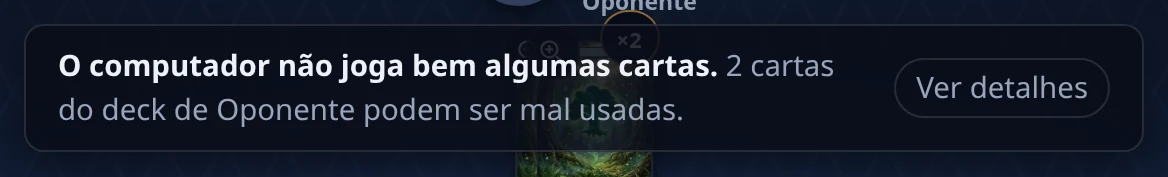
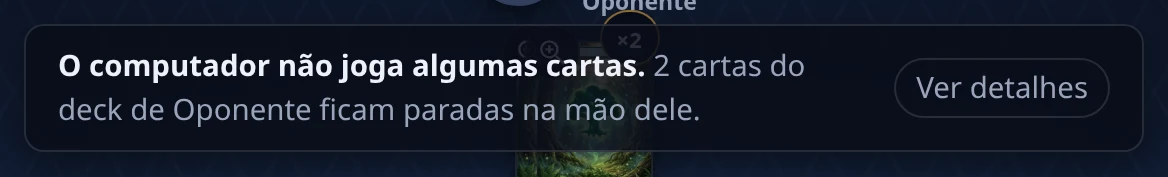
O computador joga com os seus decks: a lista do deck do computador ganha o grupo Meus decks, e deck com cartas que a IA não usa é aceito sem travar (elas ficam paradas na mão dele); aviso do começo da partida diz isso; item 118 (revelar e escolher numa janela só) no roadmap (0.154.0)

Changed region(s): [[0.0616, 0.5367, 0.6164, 0.7062], [0.339, 0.3107, 0.7397, 0.4802]]

diff --git a/src/ui/lobby.ts b/src/ui/lobby.ts
@@ -139,6 +139,8 @@ export function mountLobby(root: HTMLElement, opts: LobbyOptions): Lobby {
   function matches(deck: DeckData) { return matchesQuery(deck, query, ptName) && matchesColors(deckColors(deck), colorFilter); }
   // ---------- Decks dos computadores (as regras ficam em lobbyBots) ----------
   const readyPool = () => readyBotPool(allDecks(), format);
+  /** Os decks do jogador que o computador pode usar neste formato (escolhidos à mão; o aleatório sorteia só entre os prontos). */
+  const myBotDecks = () => allDecks().filter(d => !d.builtin && fitsIn(d, format ?? 'free'));
   const myBracket = () => { const deck = selected(); return deck && !deck.precon ? deckBracket(deck) : deck?.bracket; };
   /** Precon com "só da série" marcado: a série do deck do jogador. */
   const botSeries = () => format === 'precon' && sameSeries ? selected()?.precon?.series : undefined;
@@ -272,14 +274,15 @@ export function mountLobby(root: HTMLElement, opts: LobbyOptions): Lobby {
     const style = load(KEYS.aiStyle), aiStyle = isAiStyle(style) ? style : DEFAULT_AI_STYLE;
     $<HTMLSelectElement>('#aiStyleSel').value = aiStyle;
     $('#aiStyleHelp').textContent = AI_STYLES.find(s => s.id === aiStyle)!.hint;
-    const basePool = readyPool(), aiPool = commander ? botPool(basePool) : basePool;
+    const basePool = readyPool(), aiPool = commander ? botPool(basePool) : basePool, mine = myBotDecks();
     renderBotChoices(basePool, aiPool);
-    if (oppId !== 'random' && !aiPool.some(d => d.id === oppId)) oppId = 'random';
-    $<HTMLSelectElement>('#oppSel').innerHTML = opponentOptionsHTML(aiPool);
+    const offered = (id: string) => id === 'random' || aiPool.some(d => d.id === id) || mine.some(d => d.id === id);
+    if (!offered(oppId)) oppId = 'random';
+    $<HTMLSelectElement>('#oppSel').innerHTML = opponentOptionsHTML(aiPool, mine);
     $<HTMLSelectElement>('#oppSel').value = oppId;
     if (commander) {
-      commanderOpponents = commanderOpponents.map(id => id === 'random' || aiPool.some(d => d.id === id) ? id : 'random');
-      $('#commanderAiPanel').innerHTML = commanderAiPanelHTML(commanderOpponents.slice(0, playerCount - 1), aiPool);
+      commanderOpponents = commanderOpponents.map(id => offered(id) ? id : 'random');
+      $('#commanderAiPanel').innerHTML = commanderAiPanelHTML(commanderOpponents.slice(0, playerCount - 1), aiPool, mine);
     }
     for (const control of root.querySelectorAll<HTMLInputElement | HTMLButtonElement>('#oppSel, #aiStyleSel, [data-opponent-slot], #netName, #netCode, #roomCode, #netUrl, [data-join] button, [data-join-room], [data-watch-room], [data-lobby=rooms-refresh], [data-lobby=library], [data-lobby=create], [data-lobby=import], [data-edit-deck]')) control.disabled = busy || !!waitingRoom;
     return aiPool;
@@ -428,13 +431,13 @@ export function mountLobby(root: HTMLElement, opts: LobbyOptions): Lobby {
         if (selectedRoom) await opts.onJoin(deck ?? null, playerName, selectedRoom.code, endpoint);
         else await opts.onHost(deck ?? null, playerName, endpoint, matchConfig, roomVisibility, chosenCode);
       } else if (deck) {
-        const opponent = opponentId === 'random' ? null : allDecks().find(d => d.builtin && d.id === opponentId);
+        const opponent = opponentId === 'random' ? null : allDecks().find(d => d.id === opponentId);
         if (opponent === undefined) { setStatus('Não há um deck do computador compatível com este formato.', true); return; }
         // Com bracket máximo ou série, o sorteio dos bots é feito aqui, entre os decks que cabem; sem eles, no servidor.
         const pool = botPool(readyPool()), filtered = botBracketMax(readyPool()) !== null || !!botSeries();
         if (hasCommandZone(matchConfig.format) && filtered && !pool.length && selectedOpponents.includes('random')) { setStatus('Nenhum deck pronto cabe no bracket máximo dos bots.', true); return; }
         // Sem filtro, os aleatórios vão como null e o servidor sorteia, também sem repetir comandante.
-        const chosen = selectedOpponents.map(id => id === 'random' ? null : allDecks().find(d => d.builtin && d.id === id) ?? null);
+        const chosen = selectedOpponents.map(id => id === 'random' ? null : allDecks().find(d => d.id === id) ?? null);
         const opponents = hasCommandZone(matchConfig.format) ? filtered ? drawBots(chosen, pool, [deck]) : chosen : undefined;
         await opts.onPlay(deck, opponents?.[0] ?? opponent, matchConfig, opponents);
       }

diff --git a/src/ui/lobbyView.ts b/src/ui/lobbyView.ts
@@ -97,10 +97,15 @@ export function botBracketHelp(o: { empty: boolean; series: boolean; max: Bracke
     : `Os bots jogam com decks até o ${bracketLabel(o.max)}${!o.chosen && o.mine === o.max ? ', o do seu deck' : ''}.`;
 }
 /** Um seletor de deck para cada computador do Commander. */
-export function commanderAiPanelHTML(slots: string[], pool: DeckData[]) {
-  return '<p class="commander-ai-heading side-label">Decks dos computadores</p>' + slots.map((id, i) => `<label class="opponent-choice" for="commanderOpp${i}"><span class="computer-seat-number" aria-hidden="true">${i + 1}</span><select id="commanderOpp${i}" aria-label="Deck do computador ${i + 1}" class="input-field" data-opponent-slot="${i}"><option value="random">Deck aleatório</option>${pool.map(d => `<option value="${esc(d.id)}" ${id === d.id ? 'selected' : ''}>${esc(d.name)}</option>`).join('')}</select></label>`).join('');
+/** As opções de deck de um computador: os prontos e, se houver, os do jogador num grupo próprio ("Meus decks"). */
+function botDeckOptionsHTML(pool: DeckData[], mine: DeckData[], selected?: string) {
+  const options = (decks: DeckData[]) => decks.map(d => `<option value="${esc(d.id)}"${selected === d.id ? ' selected' : ''}>${esc(d.name)}</option>`).join('');
+  return mine.length ? `<optgroup label="Decks prontos">${options(pool)}</optgroup><optgroup label="Meus decks">${options(mine)}</optgroup>` : options(pool);
 }
-export const opponentOptionsHTML = (pool: DeckData[]) => '<option value="random">Aleatório entre os compatíveis</option>' + pool.map(d => `<option value="${esc(d.id)}">${esc(d.name)}</option>`).join('');
+export function commanderAiPanelHTML(slots: string[], pool: DeckData[], mine: DeckData[] = []) {
+  return '<p class="commander-ai-heading side-label">Decks dos computadores</p>' + slots.map((id, i) => `<label class="opponent-choice" for="commanderOpp${i}"><span class="computer-seat-number" aria-hidden="true">${i + 1}</span><select id="commanderOpp${i}" aria-label="Deck do computador ${i + 1}" class="input-field" data-opponent-slot="${i}"><option value="random">Deck aleatório</option>${botDeckOptionsHTML(pool, mine, id)}</select></label>`).join('');
+}
+export const opponentOptionsHTML = (pool: DeckData[], mine: DeckData[] = []) => '<option value="random">Aleatório entre os compatíveis</option>' + botDeckOptionsHTML(pool, mine);
 /** O deck escolhido, junto do botão Jogar. `result`: o que o servidor disse dele, se já disse. */
 export function chosenDeckHTML(deck: DeckData | undefined, o: { format: DeckFormat | null; net: boolean; result?: { valid: boolean } }) {
   const art = deck && deckArt(deck);

diff --git a/forge-bridge/src/main/java/mesadeduelo/bridge/AiCardsNotice.java b/forge-bridge/src/main/java/mesadeduelo/bridge/AiCardsNotice.java
@@ -1,4 +1,4 @@
-// Um aviso só, discreto, com as cartas que o computador não joga bem, no lugar da janela de revelar por oponente.
+// Um aviso só, discreto, com as cartas que o computador não joga, no lugar da janela de revelar por oponente.
 package mesadeduelo.bridge;
 
 import java.util.Collection;
@@ -15,7 +15,7 @@ import forge.item.PaperCard;
 
 /**
  * No começo da partida contra o computador, o Forge abre uma janela de revelar para cada oponente com cartas que a IA
- * não sabe jogar. A mesa junta tudo num aviso de canto: quantas cartas e de quem, com a lista por oponente para quem
+ * não joga (nunca as conjura nem ativa). A mesa junta tudo num aviso de canto: quantas cartas e de quem, com a lista por oponente para quem
  * quiser ver. O reserva fica de fora (não entra em jogo na partida).
  */
 final class AiCardsNotice {
@@ -52,10 +52,11 @@ final class AiCardsNotice {
         if (total == 0) return null;
         JsonObject o = new JsonObject();
         o.addProperty("type", "toast");
-        o.addProperty("title", "O computador não joga bem algumas cartas");
+        // A IA do Forge nunca joga essas cartas (tira da lista do que pode fazer): elas ficam paradas na mão dela.
+        o.addProperty("title", "O computador não joga algumas cartas");
         o.addProperty("text", groups.size() == 1
-            ? (total == 1 ? "1 carta do deck de " + only + " pode ser mal usada." : total + " cartas do deck de " + only + " podem ser mal usadas.")
-            : total + " cartas nos decks dos oponentes podem ser mal usadas.");
+            ? (total == 1 ? "1 carta do deck de " + only + " fica parada na mão dele." : total + " cartas do deck de " + only + " ficam paradas na mão dele.")
+            : total + " cartas dos decks dos oponentes ficam paradas na mão deles.");
         o.add("groups", groups);
         return o.toString();
     }

diff --git a/forge-bridge/src/test/java/mesadeduelo/bridge/AiCardsNoticeTest.java b/forge-bridge/src/test/java/mesadeduelo/bridge/AiCardsNoticeTest.java
@@ -16,7 +16,7 @@ public class AiCardsNoticeTest {
         byPlayer.put("Bot 2", List.of("Chaos Orb"));
         JsonObject o = JsonParser.parseString(AiCardsNotice.toastByName(byPlayer)).getAsJsonObject();
         assertEquals("toast", o.get("type").getAsString());
-        assertEquals("3 cartas nos decks dos oponentes podem ser mal usadas.", o.get("text").getAsString());
+        assertEquals("3 cartas dos decks dos oponentes ficam paradas na mão deles.", o.get("text").getAsString());
         assertEquals(2, o.getAsJsonArray("groups").size());
         assertEquals("Chaos Orb", o.getAsJsonArray("groups").get(1).getAsJsonObject().getAsJsonArray("cards").get(0).getAsString());
     }
@@ -26,7 +26,7 @@ public class AiCardsNoticeTest {
         byPlayer.put("Bot 1", List.of());
         byPlayer.put("Bot 2", List.of("Mindslaver"));
         JsonObject o = JsonParser.parseString(AiCardsNotice.toastByName(byPlayer)).getAsJsonObject();
-        assertEquals("1 carta do deck de Bot 2 pode ser mal usada.", o.get("text").getAsString());
+        assertEquals("1 carta do deck de Bot 2 fica parada na mão dele.", o.get("text").getAsString());
         assertEquals(1, o.getAsJsonArray("groups").size());
         assertNull(AiCardsNotice.toastByName(Map.of("Bot 1", List.of())));
     }

diff --git a/forge-bridge/src/main/java/mesadeduelo/bridge/LobbyFields.java b/forge-bridge/src/main/java/mesadeduelo/bridge/LobbyFields.java
@@ -16,8 +16,12 @@ final class LobbyFields {
         InvalidDeck(DeckValidation.Result result, String target) { this.result = result; this.target = target; }
     }
 
+    /**
+     * O deck já validado. O do computador segue as mesmas regras do jogador: carta que a IA não joga bem não barra
+     * o deck (a mesa avisa no começo da partida); só o sorteio de deck pronto evita essas cartas.
+     */
     static Deck validated(JsonElement payload, String format, String target) {
-        var result = "opponent".equals(target) ? DeckValidation.validateForAi(payload, format) : DeckValidation.validate(payload, format);
+        var result = DeckValidation.validate(payload, format);
         if (!result.valid()) throw new InvalidDeck(result, target);
         return result.deck();
     }

diff --git a/forge-bridge/src/test/java/mesadeduelo/bridge/VisibleEventsTest.java b/forge-bridge/src/test/java/mesadeduelo/bridge/VisibleEventsTest.java
@@ -122,5 +122,7 @@ public class VisibleEventsTest {
         template.getAsJsonArray("cards").get(1).getAsJsonObject().addProperty("name","Quirion Ranger");
         assertFalse(DeckValidation.validateForAi(template,"pauper").valid());
         assertTrue(DeckValidation.validate(template,"pauper").valid());
+        // Escolhido em "Meus decks" para o computador, o mesmo deck entra: a mesa só avisa no começo da partida.
+        assertNotNull(LobbyFields.validated(template,"pauper","opponent"));
     }
 }

diff --git a/forge-bridge/src/main/java/mesadeduelo/bridge/DeckValidation.java b/forge-bridge/src/main/java/mesadeduelo/bridge/DeckValidation.java
@@ -66,6 +66,7 @@ final class DeckValidation {
         return new Result(deck, issues);
     }
 
+    /** Para o sorteio de deck pronto do computador: recusa carta que a IA não joga bem (fora do precon, que vai como saiu da caixa). */
     static Result validateForAi(JsonElement payload, String format) {
         Result result = validate(payload, format);
         // O precon vai como saiu da caixa também para o computador: ele só não usa bem as cartas que a IA do Forge não conhece.

diff --git a/TESTES.md b/TESTES.md
@@ -40,4 +40,4 @@ O hook de pre-commit (`.githooks/pre-commit`, ligado pelo `npm install`) roda `n
 
 Nenhuma desde 2026-11-04 (0.126.1): a suíte da mesa, a do servidor, os testes de navegador e as partidas (`test:e2e`) passam inteiros. Qualquer falha agora é nova e precisa ser investigada.
 
-Testes que já falharam de vez em quando e passaram ao rodar de novo (máquina carregada, várias mesas e servidores subindo juntos): `attack-groups`, `commander-table` e `artwork-click` (navegador) e `test-end-step-stop`, `test-commander`, `test-lifecycle` (em 07/11/2026 falhou na suíte inteira antes e depois da mudança da 0.147.0, por tempo em "survivors play after chooser concedes", e passou sozinho) e `test-damage-events` (partidas; este último falhou 1 vez em 4 também sem a mudança em 05/11/2026, na comparação da mão; e `test-damage-events`, que falhou 1 vez no `test:e2e` e 1 em 3 sozinho em 06/11/2026, quando a partida acaba antes de todos os danos conferidos aparecerem, sem relação com a mudança). Se um deles falhar, rode de novo sozinho antes de investigar; se falhar duas vezes, é de verdade.
+Testes que já falharam de vez em quando e passaram ao rodar de novo (máquina carregada, várias mesas e servidores subindo juntos): `attack-groups`, `commander-table` e `artwork-click` (navegador) e `test-end-step-stop`, `test-commander`, `test-lifecycle` (em 07/11/2026 falhou na suíte inteira antes e depois da mudança da 0.147.0, por tempo em "survivors play after chooser concedes", e passou sozinho) e `test-damage-events` (partidas; este último falhou 1 vez em 4 também sem a mudança em 05/11/2026, na comparação da mão; e `test-damage-events`, que falhou 1 vez no `test:e2e` e 1 em 3 sozinho em 06/11/2026, quando a partida acaba antes de todos os danos conferidos aparecerem, sem relação com a mudança). O `test-commander` falha cerca de metade das vezes, mesmo sozinho, por tempo em "4-player AI round completes" (a volta de três computadores com decks de Commander passa dos 25 s); em 09/11/2026 falhou 3 de 6 no código de antes da 0.154.0 e 3 de 7 depois, então não conta como falha nova. Se um deles falhar, rode de novo sozinho antes de investigar; se falhar duas vezes, é de verdade.

diff --git a/CHANGELOG.md b/CHANGELOG.md
@@ -10,10 +10,14 @@ As versões anteriores à 0.100.0 estão em [docs/changelog-antigo.md](docs/chan
 
 ## [0.154.0] - 2026-11-09
 
+### Novo
+
+- **O computador joga com os seus decks.** Na escolha do deck do computador (e dos computadores no Commander), a lista ganha o grupo **Meus decks**, com os seus decks que valem no formato. Dá para escolher até um deck com cartas que o computador não sabe usar: ele não trava por isso, só não joga essas cartas, que ficam paradas na mão dele, e a mesa avisa no começo da partida quais são. "Aleatório" continua sorteando só entre os decks prontos.
+
 ### Mudou
 
 - **Mulligan mais simples.** Ao pedir mulligan, você vê as 7 cartas novas e decide na hora: **Mulligan** de novo ou **Manter 6** (o botão já diz com quantas fica, e a mesa avisa quantas vão para o fundo do grimório). Só ao manter você toca nas cartas que vão para o fundo e confirma em **Devolver 1 carta**. Antes, a mesa pedia as cartas para devolver primeiro e depois perguntava de novo se você queria manter. O antigo "Automático" virou **Escolher por mim**, e some quando a escolha está completa.
-- **Aviso único e discreto das cartas que o computador não joga bem.** Ao começar uma partida contra o computador com um deck pronto que tem cartas que ele não sabe usar direito, a mesa não abre mais uma janela de cartas para cada oponente: aparece um aviso só, no alto da mesa, dizendo quantas cartas são, que some sozinho. Em **Ver detalhes**, ele mostra os nomes das cartas por oponente (tocar num nome abre a carta) e fica até você fechar.
+- **Aviso único e discreto das cartas que o computador não joga.** Ao começar uma partida contra o computador com um deck que tem cartas que ele não sabe usar, a mesa não abre mais uma janela de cartas para cada oponente: aparece um aviso só, no alto da mesa, dizendo quantas cartas ficam paradas na mão dele, que some sozinho. Em **Ver detalhes**, ele mostra os nomes das cartas por oponente (tocar num nome abre a carta) e fica até você fechar.
 
 ## [0.153.0] - 2026-11-08
 

diff --git a/ROADMAP.md b/ROADMAP.md
@@ -562,3 +562,13 @@ Pedido em 08/11/2026. Em celulares e computadores mais simples a mesa pesa: muit
 - [ ] Item no CHANGELOG e prints em Novidades em imagens (mesa normal e no modo leve).
 
 - [ ] Decidir antes de fazer: se o modo leve liga sozinho ou só sugere ("A mesa está lenta neste aparelho. Ligar o modo leve?"); o que ele desliga; qual celular de entrada usar como referência.
+
+## 118. Revelar e escolher uma carta numa janela só
+
+Pedido em 09/11/2026. Quando um efeito revela cartas e o jogador escolhe uma delas, a mesa mostra duas janelas seguidas (uma para ver as cartas reveladas e outra para escolher). Verificar se dá para mostrar uma só: as cartas reveladas já escolhíveis, com o texto do efeito, e um botão para confirmar.
+
+- [ ] Reproduzir com cartas de exemplo (revelar o topo e escolher uma para a mão, como Impulse ou Dig Through Time; revelar a mão do oponente e escolher uma, como Thoughtseize) e listar as janelas que aparecem e de onde vem cada uma (o motor pede "revelar" e depois "escolher", ou a mesa abre as duas).
+- [ ] Juntar as duas quando a escolha vem logo depois da revelação das mesmas cartas: uma janela com as cartas e a escolha; as não escolhidas continuam visíveis, para o jogador saber o que foi revelado.
+- [ ] Manter a janela de só revelar quando não há escolha depois (ou quando quem escolhe é outro jogador).
+- [ ] Conferir com o oponente vendo a revelação (ele não escolhe, só vê) e em partida contra o computador.
+- [ ] Item no CHANGELOG, prints em Novidades em imagens e cenário no Laboratório com uma carta que revela e escolhe.
